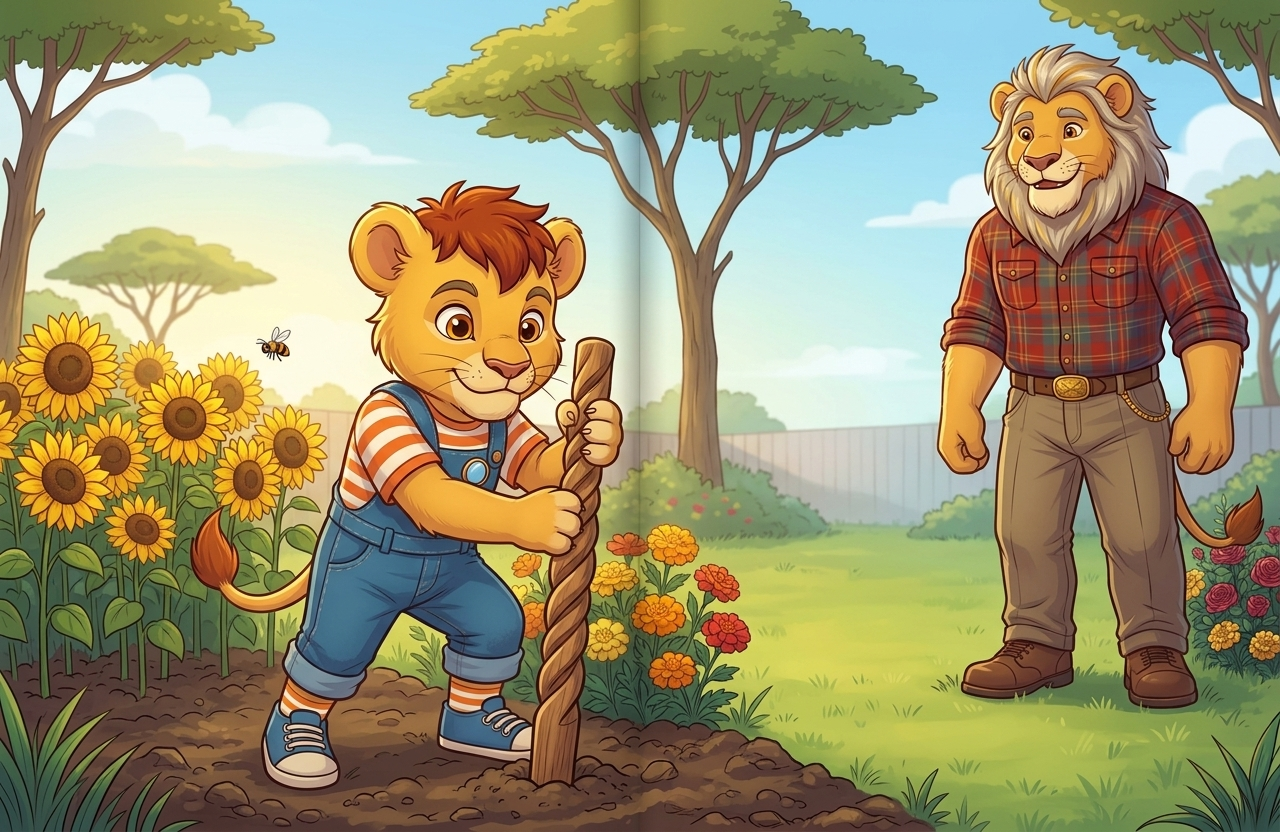
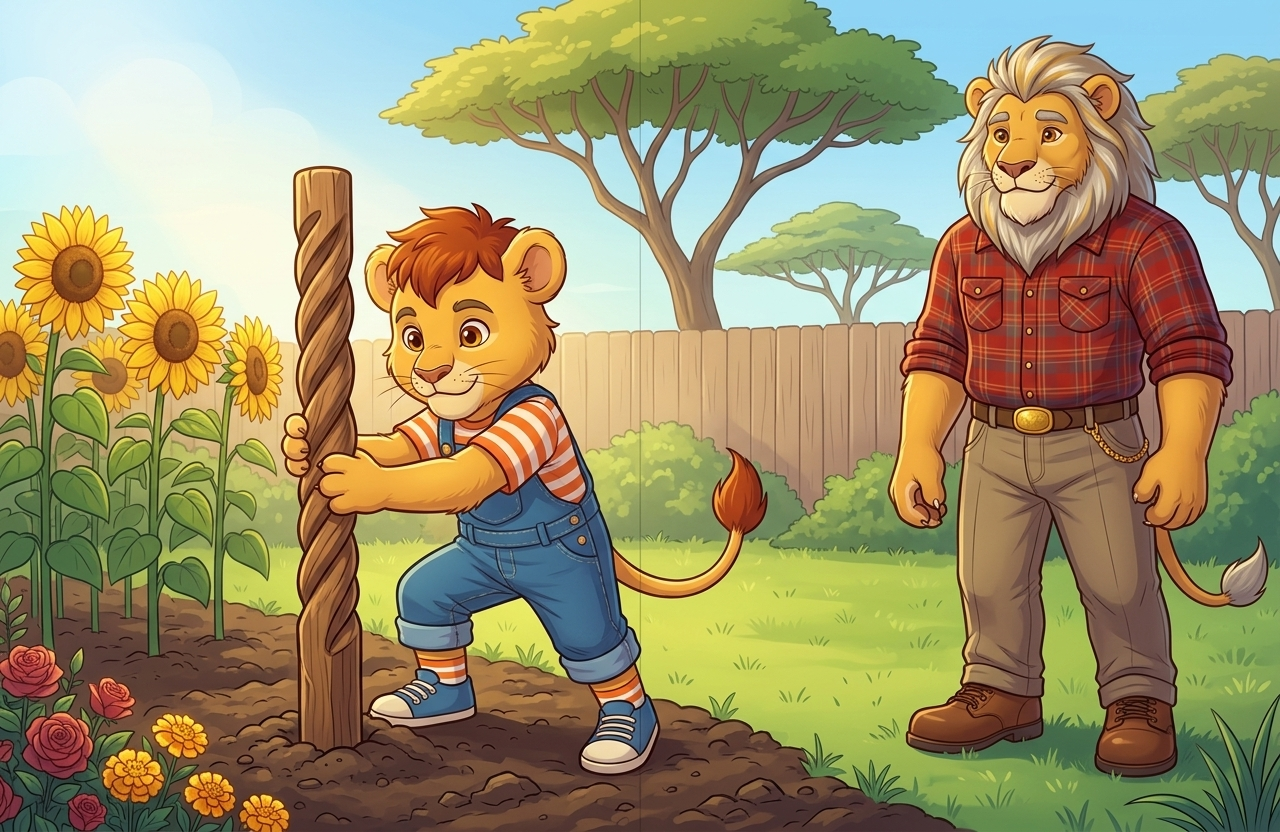
Refactor: Enforce Strict No-Text and No-Bubble rules, and update Page 18 and 20 drafts

diff --git a/02_Publishing_Files/closed_loop_production.py b/02_Publishing_Files/closed_loop_production.py
@@ -177,6 +177,7 @@ def generate_image(prompt_text, aspect_ratio="17:11"):
     
     instruction = (
         "Generate a high-resolution, final publication-grade 2D digital storybook illustration with vibrant vector linework and soft cel shading. "
+        "STRICT NO-TEXT & NO-BUBBLE RULE: You must absolutely NEVER render any text, letters, words, dialog bubbles, speech bubbles, thought bubbles, or comic-book pointers on the image. Keep the background completely clean, natural, and empty of graphical text artifacts. "
         "STRICT CHARACTER & STYLE CONTINUITY: You must match the visual style, fur tones, and character visual designs shown in the attached reference image. "
         f"Prompt instructions: {prompt_text}"
     )
